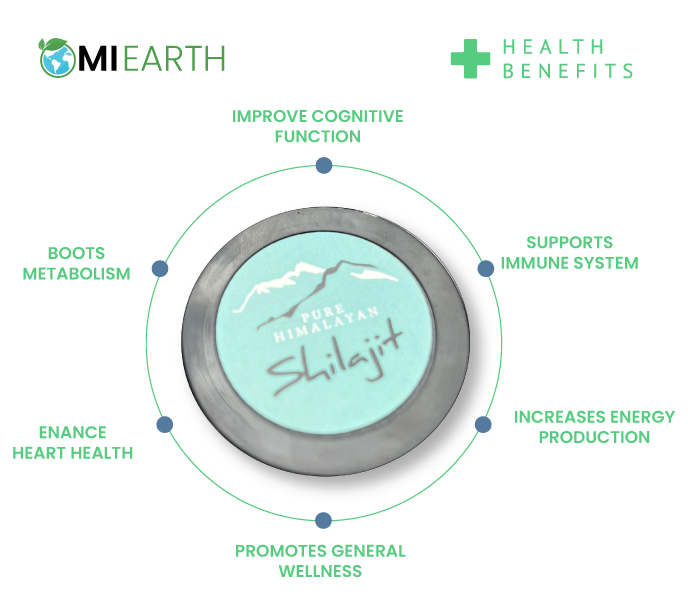
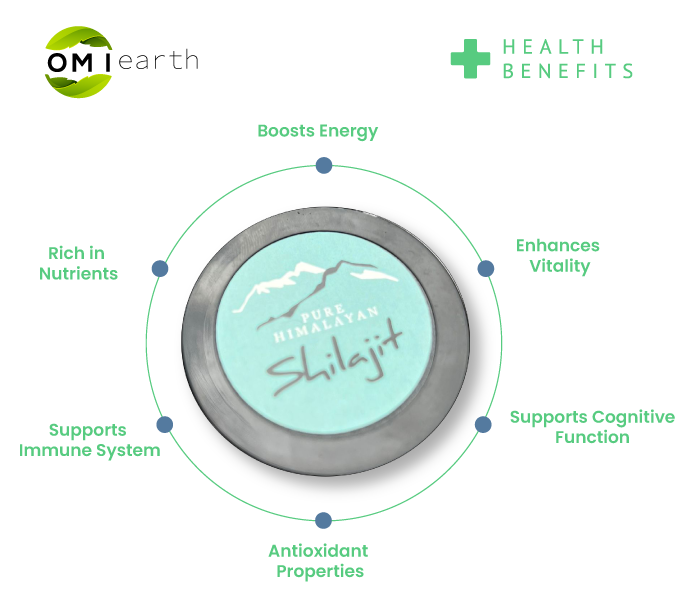
image change

diff --git a/src/components/Header.tsx b/src/components/Header.tsx
@@ -1,5 +1,5 @@
 import { HStack, IconButton, Image, Link, Text } from "@chakra-ui/react";
-import Logo from "../assets/logo.png";
+import Logo from "../assets/logo.svg";
 
 interface HeaderProps {
   onOpen: () => void;
@@ -18,7 +18,7 @@ export default function Header({ onOpen, cartCount }: HeaderProps) {
       mb={2}
       
     >
-      <Image src={Logo} maxW={{base:"120px",sm:"100%"}} />
+      <Image src={Logo} maxW={{base:"120px",sm:""}} />
 
       <HStack
         justifyContent={{ base: "end", xl: "space-between" }}

diff --git a/index.html b/index.html
@@ -2,7 +2,7 @@
 <html lang="en">
   <head>
     <meta charset="UTF-8" />
-    <link rel="icon" type="image/svg+xml" href="/favico.png" />
+    <link rel="icon" type="image/svg+xml" href="/icon.svg" />
     <meta name="viewport" content="width=device-width, initial-scale=1.0" />
     <title>Omiearth 100% Pure Himalayan Shilajit Gold Organic Soft Resin Enriched with Fulvic Acid</title>
 
